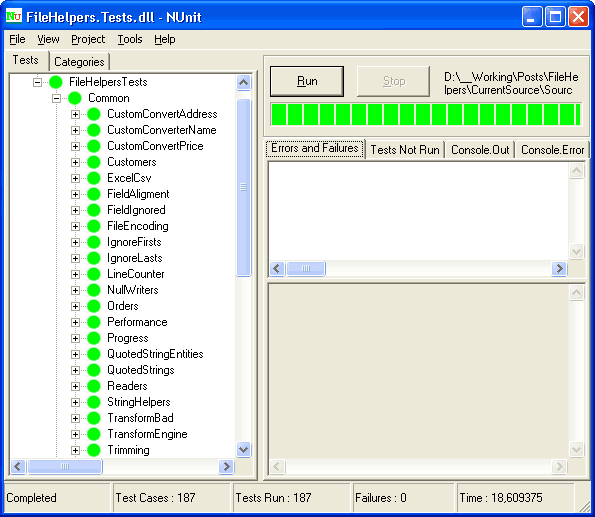
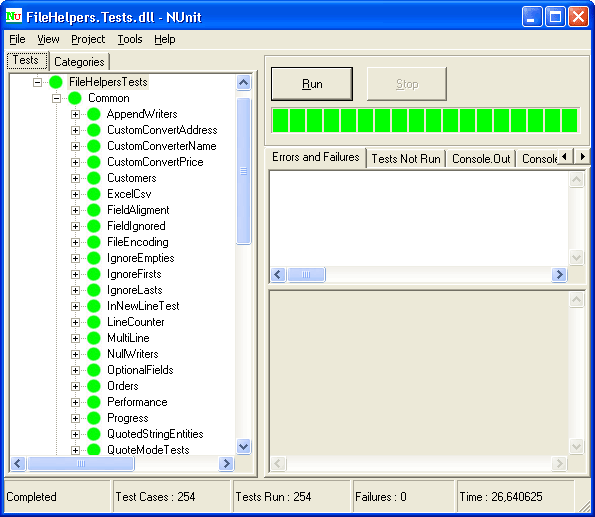
MOD: Docs MOD: FillRecord now has one more param then the user don´t need to create the record and return it. DEL: Redundant constructors in the Exceptions MOD: testing image

Changed region(s): [[0.0, 0.1238, 0.9983, 0.9903], [0.0908, 0.1238, 0.2723, 0.1857], [0.9681, 0.0, 0.9983, 0.0619]]

diff --git a/Doc/Include/history.html b/Doc/Include/history.html
@@ -391,9 +391,6 @@
                              <li>ADD: The ReadMethods of the FileHelperEngine can return the data as a <strong>DataTable</strong>
                                  the sufix of this methods are <strong>AsDT</strong>. That is perfect to load sample data into your NUnit test (examples comming soon)</li>
                              <li>ADD: New <strong>IgnoreEmptyLines</strong> that allows you to mark a record with it to ignore empty lines in the source data.</li>
-                             <li>ADD: New <strong>MultiRecordEngine</strong> that can parse files with different
-                                 record types (some delimited with a <strong>|</strong> others with a <strong>;</strong>
-                                 others with fixed length)</li>
                              <li>ADD: CommonEngine.<strong>SortFile </strong>and<strong> SortRecords </strong>by
                                  field or using the IComparable intercafe if the records implement one.</li>
                              <li>ADD: New demo code in a Console Application project to make easy to newbies play with the library.</li>
@@ -402,7 +399,6 @@
                          </ul>
                              <p>
                         <b> Minor changes:</b></p>
-                      </LI>
 							<UL>
 								<LI>FIX: IO Exception when appending to an empty file. </li>
                                 <li>FIX: The AsyncEngine could close the File in the BeginWriteFile under some conditions.</li>
@@ -415,9 +411,9 @@
                                 <li>ADD: More and enhaced <A href="testing.html">NUnit tests</a> (more than 240) based
                                     in the coverage of <a href="http://www.cenqua.com">clover.net</a>&nbsp;</li>
                                 <li>ADD: Some new and corrected <a href="examples.html">Usage Examples</a>. </li>
-                                <li>ADD: Now the Wizard Supports FieldOptional and can generate the Properties that
-                                    maps to the fields usefull to Data Binding the RecordClass to any binding aware
-                                    control (VS2005)</li>
+                                <li>ADD: Now the Wizard Supports FieldOptional and IgnoreEmptyLines, also you can generate the Properties that
+                                    maps to the fields (useful for Data Binding the RecordClass to any binding aware
+                                    control in VS2005) </li>
                                 <li>ADD: Encoding support for source and destination in the transformation engine.</li>
                                 <li>ADD: A new feature for the custom converters to allow them to handle the null values</li>
                                 <li>ADD: More features in the CommonEngine: TransformFile and the fast TransformFileAsync</li>
@@ -431,6 +427,7 @@
                             </ul>
                                 <p></p>
                                 <p></p>
+                      </LI>
  					</UL>
  					
 

diff --git a/Doc/Include/example_sqlstorage_extract.html b/Doc/Include/example_sqlstorage_extract.html
@@ -113,9 +113,9 @@ After this limes if you want to get the records from the Db you need this lines:
 After this limes if you want to get the records from the Db you need this lines:
 <textarea name="code" class="c#">
 
-protected object FillRecordOrder(object[] fields)
+protected void FillRecordOrder(object rec, object[] fields)
 {
-	OrdersVerticalBar record = new OrdersVerticalBar();
+	OrdersVerticalBar record = (OrdersVerticalBar) rec;
 
 	record.OrderID = (int) fields[0];
 	record.CustomerID = (string) fields[1];
@@ -130,8 +130,6 @@ protected object FillRecordOrder(object[] fields)
 
 	record.ShipVia = (int) fields[6];
 	record.Freight = (decimal) fields[7];
-
-	return record;
 }
 </textarea>
 </blockquote>                     

diff --git a/Doc/Include/example_sqlstorage_insert.html b/Doc/Include/example_sqlstorage_insert.html
@@ -112,9 +112,9 @@ After this limes if you want to get the records from the Db you need this lines:
 After this limes if you want to get the records from the Db you need this lines:
 <textarea name="code" class="c#">
 
-protected object FillRecordOrder(object[] fields)
+protected void FillRecordOrder(object rec, object[] fields)
 {
-	OrdersVerticalBar record = new OrdersVerticalBar();
+	OrdersVerticalBar record = (OrdersVerticalBar) rec;
 
 	record.OrderID = (int) fields[0];
 	record.CustomerID = (string) fields[1];
@@ -130,7 +130,6 @@ protected object FillRecordOrder(object[] fields)
 	record.ShipVia = (int) fields[6];
 	record.Freight = (decimal) fields[7];
 
-	return record;
 }
 </textarea>
 </blockquote>                     

diff --git a/FileHelpersTests/Tests/Common/TransformEngine.cs b/FileHelpersTests/Tests/Common/TransformEngine.cs
@@ -26,6 +26,33 @@ namespace FileHelpersTests.Common
 		}
 
 		[Test]
+		public void CsvToFixedLengthCommon()
+		{
+			CommonEngine.TransformFile(TestCommon.TestPath("Good\\Transform1.txt"), typeof(FromClass), TestCommon.TestPath("Good\\transformout.txt"), typeof(ToClass));
+
+			FileHelperEngine engine = new FileHelperEngine(typeof(ToClass));
+			ToClass[] res = (ToClass[]) engine.ReadFile(TestCommon.TestPath("Good\\transformout.txt"));
+
+			if (File.Exists(TestCommon.TestPath("Good\\transformout.txt"))) File.Delete(TestCommon.TestPath("Good\\transformout.txt"));
+
+			Assert.AreEqual(6, res.Length);
+		}
+
+		[Test]
+		public void CsvToFixedLengthCommonAsync()
+		{
+			CommonEngine.TransformFileAsync(TestCommon.TestPath("Good\\Transform1.txt"), typeof(FromClass), TestCommon.TestPath("Good\\transformout.txt"), typeof(ToClass));
+
+			FileHelperEngine engine = new FileHelperEngine(typeof(ToClass));
+			ToClass[] res = (ToClass[]) engine.ReadFile(TestCommon.TestPath("Good\\transformout.txt"));
+
+			if (File.Exists(TestCommon.TestPath("Good\\transformout.txt"))) File.Delete(TestCommon.TestPath("Good\\transformout.txt"));
+
+			Assert.AreEqual(6, res.Length);
+		}
+
+
+		[Test]
 		public void CsvToFixedLength2()
 		{
 			FileTransformEngine link = new FileTransformEngine(typeof(FromClass), typeof(ToClass));
@@ -46,6 +73,32 @@ namespace FileHelpersTests.Common
 		{
 			FileTransformEngine link = new FileTransformEngine(typeof(FromClass), typeof(ToClass2));
 			link.TransformFile(TestCommon.TestPath("Good\\Transform1.txt"), TestCommon.TestPath("Good\\transformout.txt"));
+
+			FileHelperEngine engine = new FileHelperEngine(typeof(ToClass2));
+			ToClass2[] res = (ToClass2[]) engine.ReadFile(TestCommon.TestPath("Good\\transformout.txt"));
+
+			if (File.Exists(TestCommon.TestPath("Good\\transformout.txt"))) File.Delete(TestCommon.TestPath("Good\\transformout.txt"));
+
+			Assert.AreEqual(6, res.Length);
+		}
+
+		[Test]
+		public void CsvToDelimitedCommon()
+		{
+			CommonEngine.TransformFile(TestCommon.TestPath("Good\\Transform1.txt"), typeof(FromClass), TestCommon.TestPath("Good\\transformout.txt"), typeof(ToClass2));
+
+			FileHelperEngine engine = new FileHelperEngine(typeof(ToClass2));
+			ToClass2[] res = (ToClass2[]) engine.ReadFile(TestCommon.TestPath("Good\\transformout.txt"));
+
+			if (File.Exists(TestCommon.TestPath("Good\\transformout.txt"))) File.Delete(TestCommon.TestPath("Good\\transformout.txt"));
+
+			Assert.AreEqual(6, res.Length);
+		}
+
+		[Test]
+		public void CsvToDelimitedCommonAsync()
+		{
+			CommonEngine.TransformFileAsync(TestCommon.TestPath("Good\\Transform1.txt"), typeof(FromClass), TestCommon.TestPath("Good\\transformout.txt"), typeof(ToClass2));
 
 			FileHelperEngine engine = new FileHelperEngine(typeof(ToClass2));
 			ToClass2[] res = (ToClass2[]) engine.ReadFile(TestCommon.TestPath("Good\\transformout.txt"));

diff --git a/FileHelpersSamples/frmDataLinkSample.cs b/FileHelpersSamples/frmDataLinkSample.cs
@@ -116,9 +116,9 @@ namespace FileHelpersSamples
 	storage.GetInsertSqlCallback = new GetInsertSqlHandler(GetInsertSql);
 }
 
-private object FillRecord(object[] fields)
+private void FillRecord(object rec, object[] fields)
 {
-	CustomersVerticalBar record = new CustomersVerticalBar();
+	CustomersVerticalBar record = (CustomersVerticalBar) rec;
 
 	record.CustomerID = (string) fields[0];
 	record.CompanyName = (string) fields[1];
@@ -127,8 +127,6 @@ private object FillRecord(object[] fields)
 	record.Address = (string) fields[4];
 	record.City = (string) fields[5];
 	record.Country = (string) fields[6];
-
-	return record;
 }
 
 private string GetInsertSql(object record)
@@ -146,7 +144,6 @@ private string GetInsertSql(object record)
 		);
 
 }
-
 ";
 			// 
 			// lblStatus
@@ -185,9 +182,9 @@ private string GetInsertSql(object record)
 		#endregion
 
 		
-		private object FillRecord(object[] fields)
+		private void FillRecord(object rec, object[] fields)
 		{
-			CustomersVerticalBar record = new CustomersVerticalBar();
+			CustomersVerticalBar record = (CustomersVerticalBar) rec;
 
 			record.CustomerID = (string) fields[0];
 			record.CompanyName = (string) fields[1];
@@ -196,8 +193,6 @@ private string GetInsertSql(object record)
 			record.Address = (string) fields[4];
 			record.City = (string) fields[5];
 			record.Country = (string) fields[6];
-
-			return record;
 		}
 		
 		private string GetInsertSql(object record)

diff --git a/FileHelpersTests/Tests/DataLink/DataLinkTests.cs b/FileHelpersTests/Tests/DataLink/DataLinkTests.cs
@@ -16,9 +16,9 @@ namespace FileHelpersTests.DataLink
 		#region "  FillRecordOrders  "
 
 		
-		protected object FillRecordOrders(object[] fields)
+		protected void FillRecordOrders(object rec, object[] fields)
 		{
-			OrdersFixed record = new OrdersFixed();
+			OrdersFixed record = (OrdersFixed) rec;
 
 			record.OrderID = (int) fields[0];
 			record.CustomerID = (string) fields[1];
@@ -32,7 +32,6 @@ namespace FileHelpersTests.DataLink
 			record.ShipVia = (int) fields[6];
 			record.Freight = (decimal) fields[7];
 
-			return record;
 		}
 
 		#endregion
@@ -54,9 +53,9 @@ namespace FileHelpersTests.DataLink
 		}
 
 		
-		private object FillRecordCustomers(object[] fields)
+		private void FillRecordCustomers(object rec, object[] fields)
 		{
-			CustomersVerticalBar record = new CustomersVerticalBar();
+			CustomersVerticalBar record = (CustomersVerticalBar) rec;
 
 			record.CustomerID = (string) fields[0];
 			record.CompanyName = (string) fields[1];
@@ -65,8 +64,6 @@ namespace FileHelpersTests.DataLink
 			record.Address = (string) fields[4];
 			record.City = (string) fields[5];
 			record.Country = (string) fields[6];
-
-			return record;
 		}
 
 		[Test]

diff --git a/FileHelpersTests/Tests/DataLink/DataProvidersTests.cs b/FileHelpersTests/Tests/DataLink/DataProvidersTests.cs
@@ -24,9 +24,9 @@ namespace FileHelpersTests.DataLink
 		}
 
 		
-		protected object FillRecordOrder(object[] fields)
+		protected void FillRecordOrder(object rec, object[] fields)
 		{
-			OrdersFixed record = new OrdersFixed();
+			OrdersFixed record = (OrdersFixed) rec;
 
 			record.OrderID = (int) fields[0];
 			record.CustomerID = (string) fields[1];
@@ -40,12 +40,11 @@ namespace FileHelpersTests.DataLink
 			record.ShipVia = (int) fields[6];
 			record.Freight = (decimal) fields[7];
 
-			return record;
 		}
 
-		private object FillRecordCust(object[] fields)
+		private void FillRecordCust(object rec, object[] fields)
 		{
-			CustomersVerticalBar record = new CustomersVerticalBar();
+			CustomersVerticalBar record = (CustomersVerticalBar) rec;
 
 			record.CustomerID = (string) fields[0];
 			record.CompanyName = (string) fields[1];
@@ -54,8 +53,6 @@ namespace FileHelpersTests.DataLink
 			record.Address = (string) fields[4];
 			record.City = (string) fields[5];
 			record.Country = (string) fields[6];
-
-			return record;
 		}
 
 		[Test]

diff --git a/FileHelpers.ExcelStorage/ExcelBadUsageException.cs b/FileHelpers.ExcelStorage/ExcelBadUsageException.cs
@@ -17,12 +17,12 @@ namespace FileHelpers.DataLink
 		{
 		}
 
-		/// <summary>Creates an instance of an ExcelBadUsageException.</summary>
-		/// <param name="message">The exception Message</param>
-		/// <param name="innerEx">The inner Exception.</param>
-		internal ExcelBadUsageException(string message, Exception innerEx) : base(message, innerEx)
-		{
-		}
+//		/// <summary>Creates an instance of an ExcelBadUsageException.</summary>
+//		/// <param name="message">The exception Message</param>
+//		/// <param name="innerEx">The inner Exception.</param>
+//		internal ExcelBadUsageException(string message, Exception innerEx) : base(message, innerEx)
+//		{
+//		}
 
 	}
 }

diff --git a/FileHelpers/Helpers/RecordInfo.cs b/FileHelpers/Helpers/RecordInfo.cs
@@ -150,7 +150,7 @@ namespace FileHelpers
 			if (line == string.Empty && mIgnoreEmptyLines)
 				return null;
 
-			object record = mRecordConstructor.Invoke(BindingFlags.Public | BindingFlags.NonPublic | BindingFlags.Instance, null, RecordInfo.mEmptyObjectArr, null);
+			object record = CreateRecordObject();
 
 			for (int i = 0; i < mFieldCount; i++)
 			{
@@ -158,6 +158,11 @@ namespace FileHelpers
 			}
 
 			return record;
+		}
+
+		internal object CreateRecordObject()
+		{
+			return mRecordConstructor.Invoke(BindingFlags.Public | BindingFlags.NonPublic | BindingFlags.Instance, null, RecordInfo.mEmptyObjectArr, null);
 		}
 
 		/// <summary>Internal.</summary>

diff --git a/FileHelpers/ErrorHandling/BadUsageException.cs b/FileHelpers/ErrorHandling/BadUsageException.cs
@@ -17,12 +17,12 @@ namespace FileHelpers
 		{
 		}
 
-		/// <summary>Creates an instance of an BadUsageException.</summary>
-		/// <param name="message">The exception Message</param>
-		/// <param name="innerEx">The inner exception.</param>
-		protected internal BadUsageException(string message, Exception innerEx) : base(message, innerEx)
-		{
-		}
+//		/// <summary>Creates an instance of an BadUsageException.</summary>
+//		/// <param name="message">The exception Message</param>
+//		/// <param name="innerEx">The inner exception.</param>
+//		protected internal BadUsageException(string message, Exception innerEx) : base(message, innerEx)
+//		{
+//		}
 
 	}
 }

diff --git a/FileHelpers/ErrorHandling/FileHelperException.cs b/FileHelpers/ErrorHandling/FileHelperException.cs
@@ -17,12 +17,12 @@ namespace FileHelpers
 		{
 		}
 
-		/// <summary>Basic constructor of the exception.</summary>
-		/// <param name="message">Message of the exception.</param>
-		/// <param name="innerEx">The inner Exception.</param>
-		protected internal FileHelperException(string message, Exception innerEx) : base(message, innerEx)
-		{
-		}
+//		/// <summary>Basic constructor of the exception.</summary>
+//		/// <param name="message">Message of the exception.</param>
+//		/// <param name="innerEx">The inner Exception.</param>
+//		protected internal FileHelperException(string message, Exception innerEx) : base(message, innerEx)
+//		{
+//		}
 
 	}
 }
